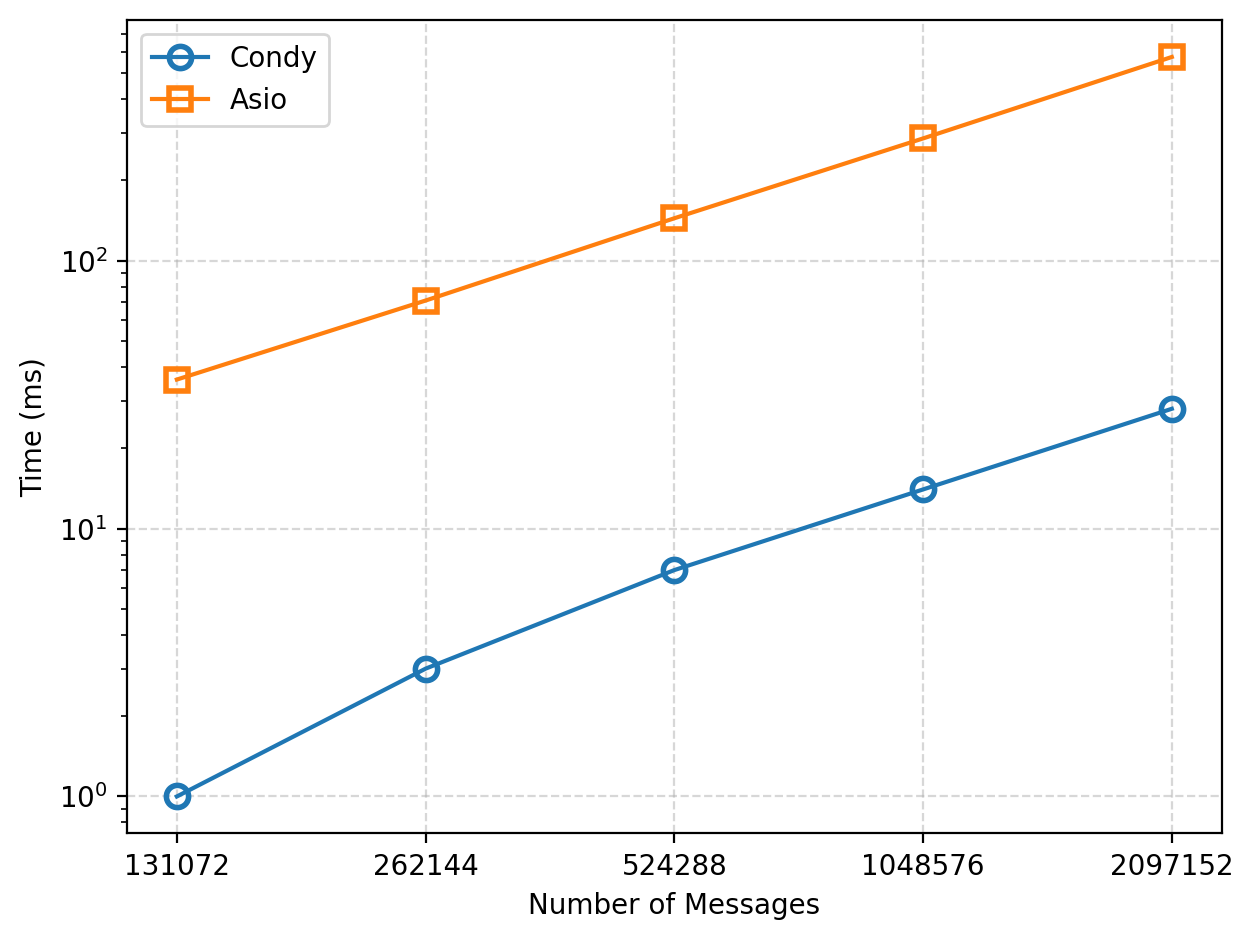
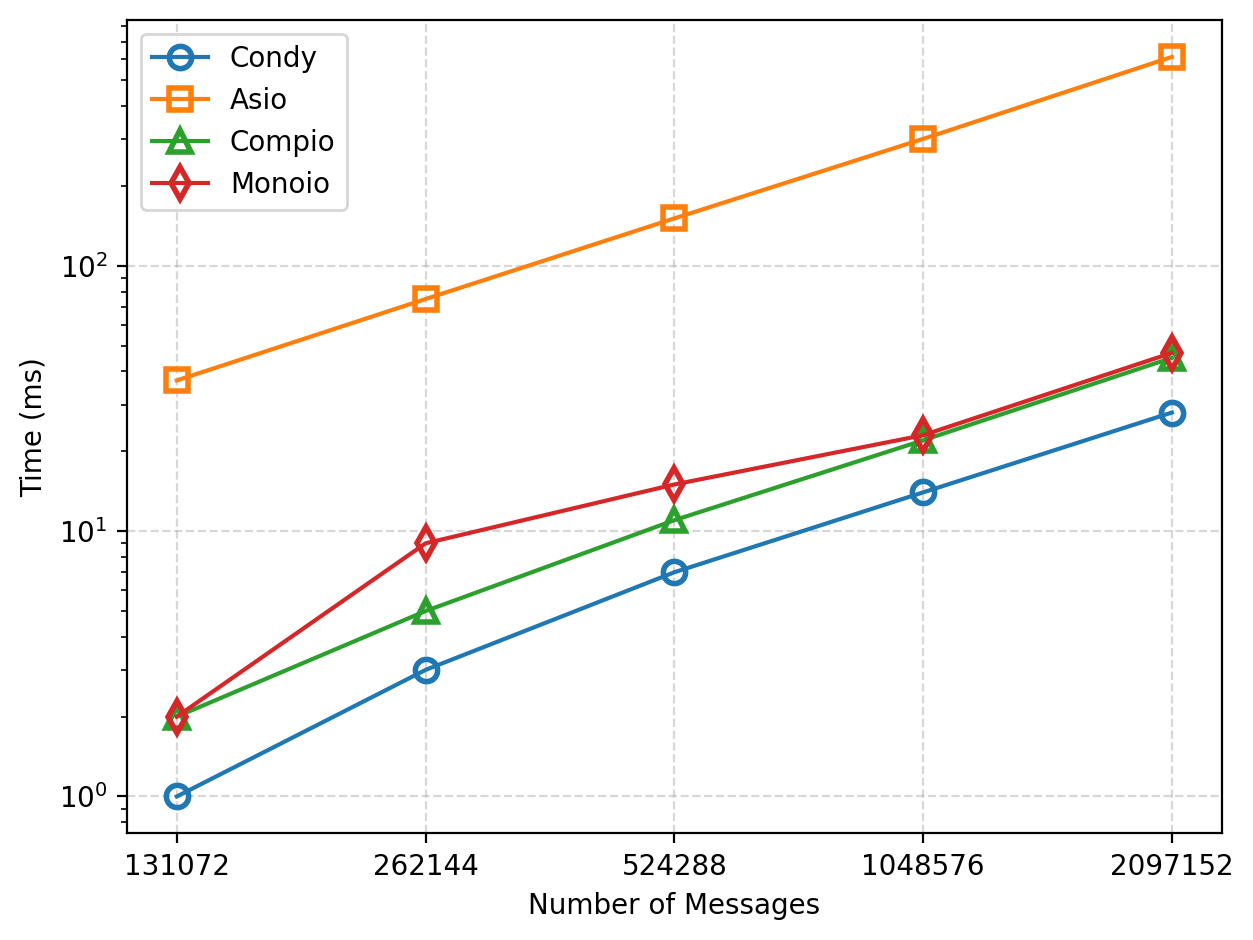
update bench doc (#31)
* add rust bench in imgs

* update bench doc

diff --git a/docs/bench.md b/docs/bench.md
@@ -11,11 +11,18 @@ Test Environment:
 - **OS**: Linux Mint 22 Cinnamon
 - **Kernel**: 6.8.0-90-generic
 
+Baselines:
+- **libaio**: The asynchronous file IO framework on Linux before io_uring.
+- **[liburing](https://github.com/axboe/liburing)**: io_uring itself. Since it is not wrapped with coroutines, it is slightly less convenient to use.
+- **[Asio](https://github.com/chriskohlhoff/asio)**: A popular IO framework in C++.
+- **[Monoio](https://github.com/bytedance/monoio)**: A Rust coroutine framework based on io_uring (has more stars than liburing on GitHub).
+- **[Compio](https://github.com/compio-rs/compio)**: Another Rust coroutine framework based on io_uring.
+
 ## Sequential File Read
 
 We tested the performance of Condy in 64KB sequential reads on an 8GB file, collected throughput data, and compared it with baseline implementations using libaio and liburing.
 
-As shown in the figure, as the queue depth (number of concurrent tasks) increases, the read throughput gradually rises. When Direct IO is not enabled, Condy’s throughput is less than 3500MB/s. After registering files and buffers (marked as Fixed in the figure), Condy’s performance improves to some extent. With Direct IO enabled, Condy’s throughput increases significantly. At a queue depth of 4, Condy Direct IO is only slightly better than libaio. However, as the queue depth increases, Condy’s advantage becomes more pronounced, and at a queue depth of 64, throughput saturates (~6500MB/s). Further enabling IO Polling brings some throughput improvement at low queue depths, but as the queue depth increases, throughput is actually lower than with Direct IO alone.
+As shown in the figure, as the queue depth (number of concurrent tasks) increases, the read throughput gradually rises. When Direct IO is not enabled, Condy’s throughput is less than 3500MB/s. After registering files and buffers (marked as Fixed in the figure), Condy’s performance improves to some extent. With Direct IO enabled, Condy’s throughput increases significantly. At a queue depth of 4, Condy Direct IO is only slightly better than libaio. However, as the queue depth increases, Condy’s advantage becomes more pronounced, and at a queue depth of 32, throughput saturates (~6700MB/s). Further enabling IO Polling brings some throughput improvement at low queue depths, but as the queue depth increases, throughput is actually lower than with Direct IO alone. Monoio and Compio have lower throughput than libaio at all queue depths, and thus are also much lower than Condy. They did not fully utilize the performance potential of io_uring. Monoio performs slightly better than Compio.
 
 In addition, Condy’s performance is roughly the same as the baseline program implemented with liburing under the same configuration.
 
@@ -30,6 +37,8 @@ We tested the performance of Condy in 4KB random reads on an 8GB file, collected
 As shown in the figure, as the queue depth (number of concurrent tasks) increases, the read IOPS gradually rises. When the queue depth is small (e.g., <=4), the performance of non-Direct IO is actually higher than that of libaio and Condy with Direct IO. Registering files and buffers on top of this provides a slight performance improvement, but the gain is not as significant as in sequential reads. When Direct IO is combined with IO Polling, Condy achieves optimal performance at small queue depths (<=8 in the figure).
 
 At larger queue depths, Direct IO achieves better performance. When the queue depth reaches 16, libaio achieves the best performance but also reaches the saturation IOPS of the framework. Condy, however, can achieve even better IOPS as the queue depth continues to increase. In this scenario, plain Condy Direct IO achieves the best performance, while IO Polling is slightly worse but still better than libaio.
+
+Monoio and Compio have lower throughput than libaio and Condy (with Direct IO) at all queue depths. The maximum performance gap between these frameworks and Condy is 50K IOPS (**1.25x** performance improvement). Monoio still performs slightly better than Compio.
 
 Similarly, Condy’s performance is roughly the same as the baseline program implemented with liburing under the same configuration.
 
@@ -49,7 +58,7 @@ As the number of connections increases, the throughput first rises and then fall
 
 ## Channel
 
-By varying the number of messages sent and the number of Channels, and measuring the total time taken, we compared the performance of Condy and Asio Channels.
+We compared the performance of Condy, Asio, Monoio, and Compio Channels by varying the number of messages sent and the number of Channels, and measuring the total time taken. (Monoio and Compio use `futures::channel::mpsc`.)
 
 <div align="center">
   <img src="channel_number_of_messages.png" width="60%">
@@ -59,24 +68,24 @@ By varying the number of messages sent and the number of Channels, and measuring
   <img src="channel_task_pairs.png" width="60%">
 </div>
 
-As shown in the figures, as the number of messages and concurrent tasks increases, the total time for both Condy and Asio increases linearly. In terms of execution time, Condy achieves a **20x** performance improvement over Asio.
+As shown in the figures, as the number of messages and concurrent tasks increases, the total time for these frameworks increases linearly. In terms of execution time, Condy achieves a **20x** performance improvement over Asio. Compared to Monoio and Compio, there is also a **1.6x** performance improvement.
 
 ## Coroutine Spawn
 
-By varying the number of coroutines created and measuring the total time taken, we compared the efficiency of Condy and Asio in coroutine creation.
+We compared the efficiency of Condy, Asio, Monoio, and Compio in coroutine creation by varying the number of coroutines created and measuring the total time taken.
 
 <div align="center">
   <img src="spawn_number_of_tasks.png" width="60%">
 </div>
 
-As shown in the figure, as the number of coroutines increases, the total time for both Condy and Asio increases linearly. In terms of execution time, Condy achieves a **5x** performance improvement over Asio.
+As shown in the figure, as the number of coroutines increases, the total time for these frameworks increases linearly. In terms of execution time, Condy achieves a **5x** performance improvement over Asio and Compio. Condy's performance is slightly inferior to Monoio. However, the average creation time per coroutine for Condy only increases by 19ns (compared to 55ns for Monoio).
 
 ## Coroutine Switch
 
-By repeatedly switching coroutines and measuring the total time taken, we compared the efficiency of Condy and Asio in coroutine switching.
+We compared the efficiency of Condy, Asio, and Monoio in coroutine context switching by repeatedly switching coroutines and measuring the total time taken. (Monoio use `futures_lite::future::yield_now`. Compio was not included in this comparison due to excessive time consumption in this test.)
 
 <div align="center">
   <img src="post_switch_times.png" width="60%">
 </div>
 
-As shown in the figure, as the number of switches increases, the total time for both Condy and Asio increases linearly. In terms of execution time, Condy achieves a **15x** performance improvement over Asio.
+As shown in the figure, as the number of switches increases, the total time for these frameworks increases linearly. In terms of execution time, Condy achieves a **15x** performance improvement over Asio. It also achieves performance results close to Monoio, with the maximum difference per switch not exceeding 0.8ns (about 3ns per switch).
